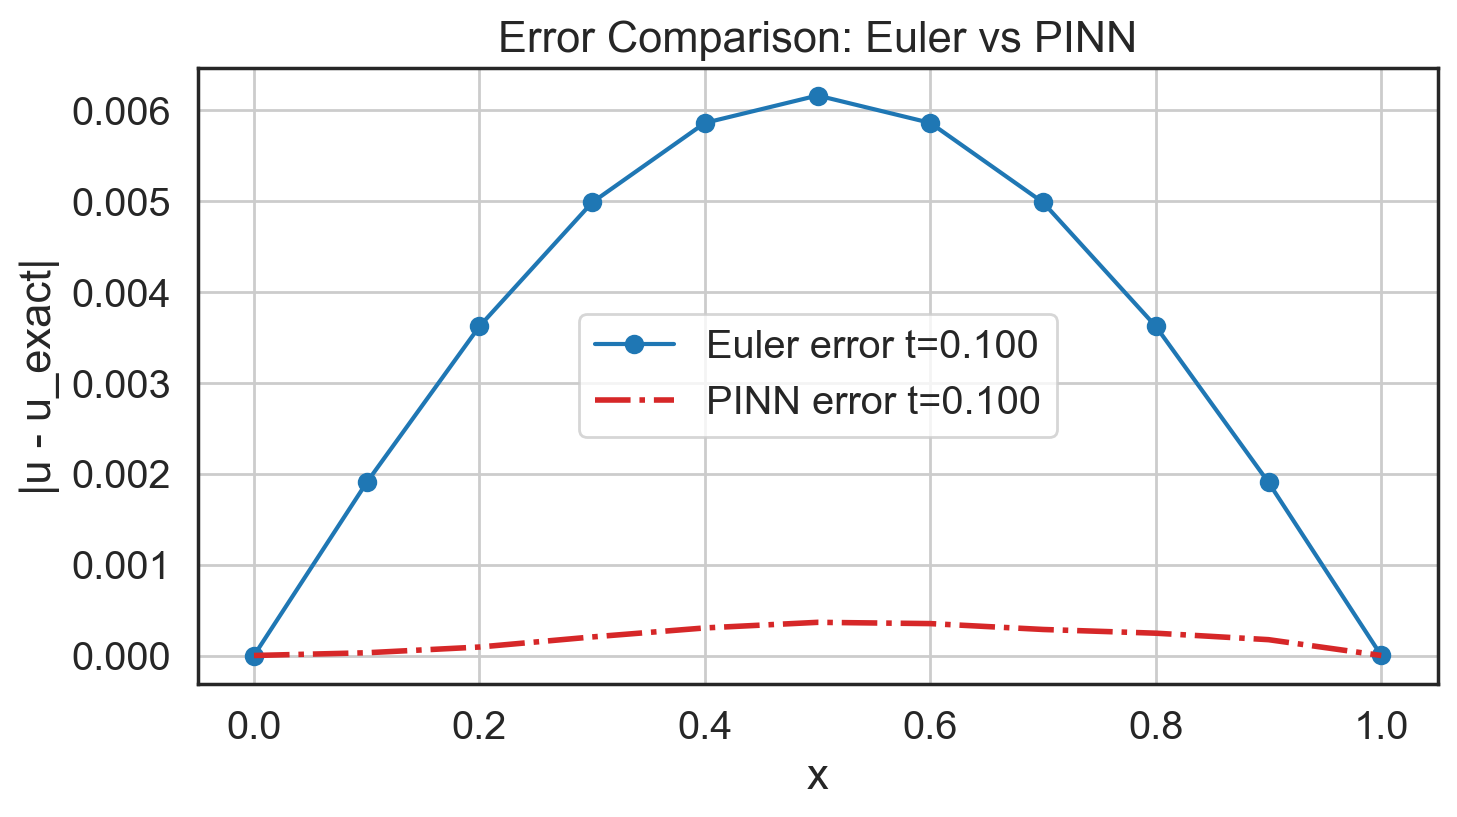
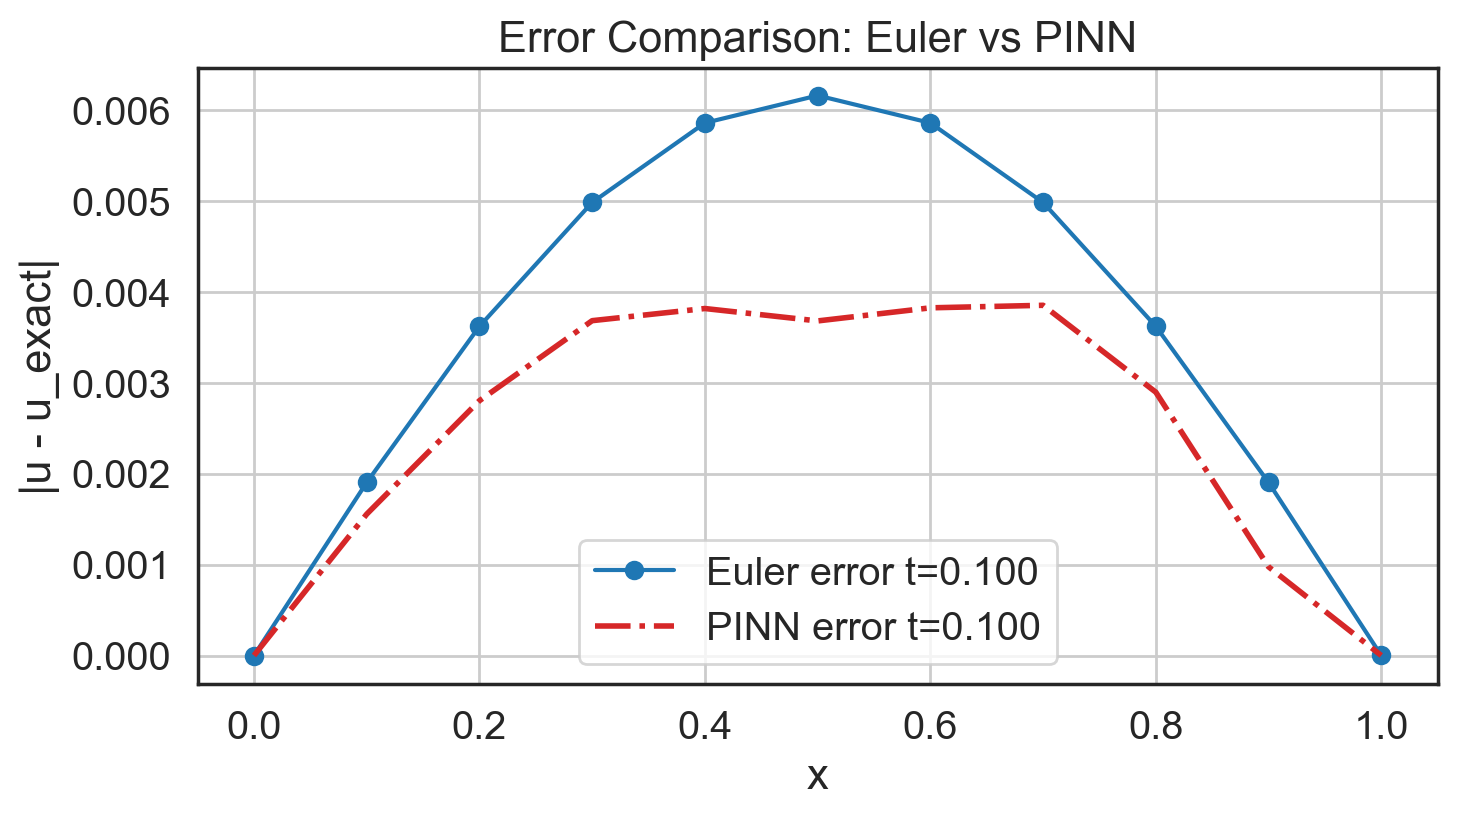
tex

diff --git a/Report/Project 3.tex b/Report/Project 3.tex
@@ -475,7 +475,7 @@ In Figure \ref{fig:initial_test}, we present the initial tests of the Euler sche
         \caption{PINN error heatmap}
         \label{fig:pinn_heatmap}
     \end{subfigure}
-    \caption{Comparison of Euler and PINN error heatmaps. Euler's error grows with time and remains largest in the spatial center. The PINN shows low error at small t, but error grows near t $\approx$ 0.03-0.05 before decaying again. Overall, PINN maintains lower maximum error.}
+    \caption{Comparison of Euler and PINN error heatmaps. Euler's error grows with time and remains largest in the spatial center. The PINN shows low error at small t, but error grows near t $\approx$ 0.03-0.05 before decaying again.}
     \label{fig:heatmap_comparison}
 \end{figure}
 
@@ -495,17 +495,14 @@ In Figure \ref{fig:initial_test}, we present the initial tests of the Euler sche
         \caption{Long time comparison of Euler, PINN and the analytical solution at t=0.5.}
         \label{fig:init_0.5}
     \end{subfigure}
-    \hfill
-    \begin{subfigure}{0.7\linewidth}
-        \centering
-        \includegraphics[width=\linewidth]{Figures/Initial tests/long_time_0.8.png}
-        \caption{Long time comparison of Euler, PINN and the analytical solution at t=0.8.}
-        \label{fig:init_0.8}
-    \end{subfigure}
-    \caption{Long-time behaviour of Euler, PINN and the analytical solution. At t= 0.2, both numerical methods track the analytical curve well. At t=0.5, Euler slightly underestimates while PINN slightly overestimates the amplitude. At t=0.8 }
+    \caption{Long-time behaviour of Euler, PINN and the analytical solution. }
     \label{fig:long_time_comparison}
     
 \end{figure}
+
+Figure \ref{fig:initial_test} shows the error at each computed point for t=0.10 .The PINN has lower maximum error, and smoother spatial accuracy compared to Euler. This is consistent with PINN minimizing the residual of the PDE globally \cite{hj_week40}, while Euler accumulates truncation error. 
+In Figure \ref{fig:heatmap_comparison} the error maps show how accuracy evolves over both space and time. The Euler method shows increasing error for larger t, especially around the center x. The PINN maintains low error at small times, but develops a localized band of errors for intermediate t. Overall, PINN maintains lower maximum error. 
+Figure \ref{fig:long_time_comparison} examines the long-time behaviour. At t= 0.2, both numerical methods track the analytical curve well. At t=0.5, Euler slightly underestimates while PINN slightly overestimates the amplitude. At t=0.8, Euler correctly approaches zero, but the PINN fails to capture the long-time decay and produces an incorrectly negative curved profile.
 
 \section{Discussion}
 
@@ -513,9 +510,11 @@ The initial result comparing the analytical solution, Euler, and PINN demonstrat
 
 Because the diffusion equation is linear and well-behaved, both approaches perform seemingly equally well under these conditions. Any differences are too small to be visible in Figure \ref{fig:initial_test}. This motivated the need for additional tests to see where the Euler method might begin to degrade and if the PINN model maintains stability or accuracy in these regimes. 
 
+From our error analysis, the results highlight a difference between traditional numerical schemes like Euler and our PINN model in solving time-dependent PDEs. They both perform well over short times, but their behaviour diverges as time increases. The Euler method displays numerical error growth that increases with time, especially for a coarse spatial step size. However, Euler seems to capture the long-time decay of the diffusion process accurately. In contrast, PINN achieves high short-time accuracy and lower error than Euler for early times. However, the PINN struggles when tested over a longer period. The solution at t = 0.8 becomes non-physical, indicating that the network has not properly learned the decay behavior required. Overall, the comparisons suggest that Euler is more robust for longer times, while PINN offers superior accuracy within a limited temporal window. As this was just an initial test to observe the behavior, we recognize that we need to refine our PINN model and identify the optimal architectures and hyperparameters. 
+
 \section{Conclusion}
 
-The initial tests confirm that both PINN and Euler reproduce the analytical solution of the diffusion equation with great accuracy for short times. 
+The initial tests confirm that both PINN and Euler reproduce the analytical solution of the diffusion equation with great accuracy for short times. Further studies over longer times revealed a significant difference: Euler converged correctly toward the steady-state zero solution, whereas PINN failed to generalize and completely broke down at long times. PINNs are powerful, but sensitive to the training domain, and although they yield better results early on, they do not guarantee long-term stability. 
 
 \bibliographystyle{apsrev4-2}
 \bibliography{biblio}
